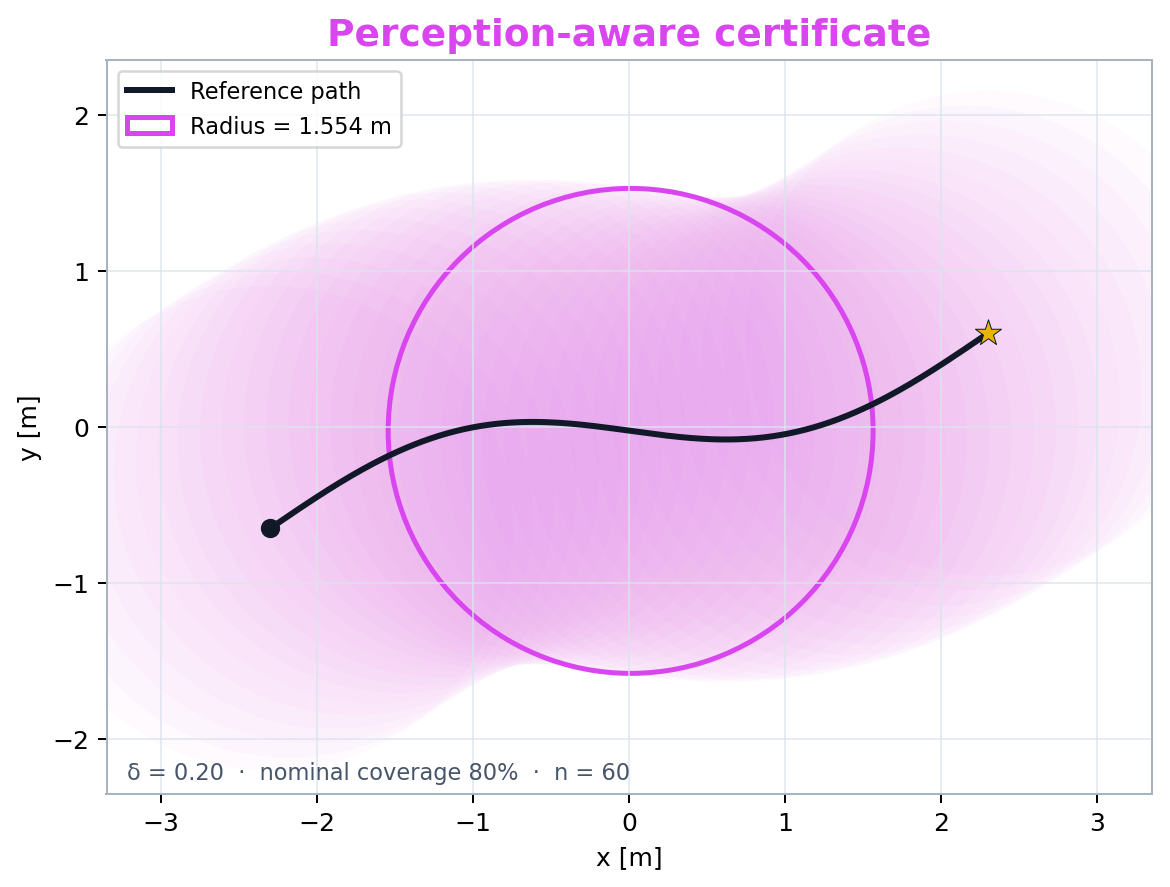
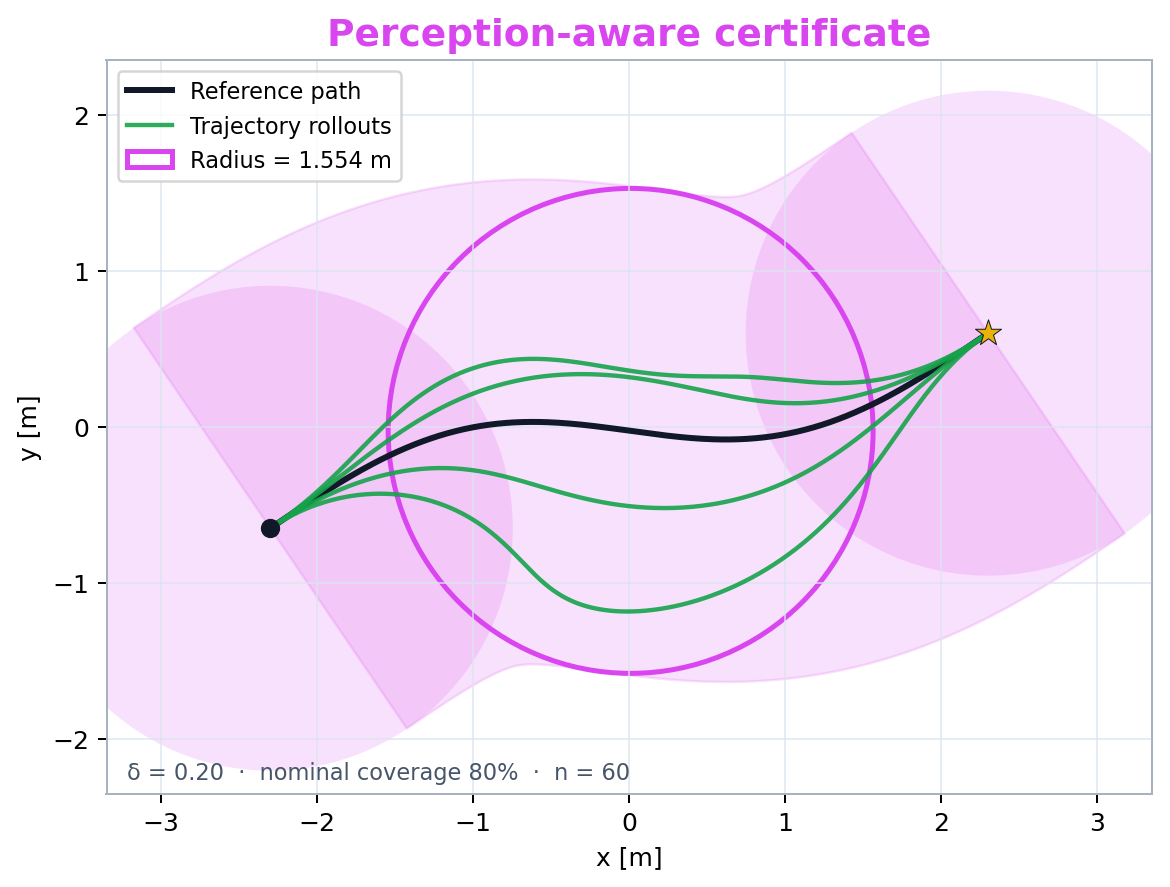
Format controller equations and add tube rollouts

diff --git a/tools/index_source.html b/tools/index_source.html
@@ -172,9 +172,19 @@
         <summary>Controller</summary>
         <div class="equation-body content">
           <p>\[ u=\hat u_d-K\hat e=\hat u_d-K(x-\hat x_d),\qquad \hat e=x-\hat x_d. \]</p>
-          <p>With \(e=x-x_d\),</p>
-          <p>\[ \dot e=A_c e+R,\qquad A_c=A-BK,\qquad R=B\big[\hat u_d-u_d+K(\hat x_d-x_d)\big]. \]</p>
-          <p>\(K\) makes \(A_c\) contracting. The matrix \(P\succ0\) satisfies \(A_c^\top P+PA_c\preceq-2\lambda_P P\).</p>
+          <p>With \(e=x-x_d\), the oracle-relative error dynamics are</p>
+          <p>\[
+            \begin{aligned}
+              \dot e &= A_c e + R, \\
+              A_c &= A-BK, \\
+              R &= B\!\left[\hat u_d-u_d+K(\hat x_d-x_d)\right].
+            \end{aligned}
+          \]</p>
+          <p>The gain \(K\) makes \(A_c\) contracting. A contraction matrix \(P\succ0\) satisfies</p>
+          <p>\[
+            A_c^{\top}P+PA_c\preceq-2\lambda_P P,
+            \qquad \lambda_P>0.
+          \]</p>
         </div>
       </details>
       <details class="equation-card">
@@ -196,8 +206,8 @@
     </div>
 
     <div class="columns result-pair is-variable is-5">
-      <div class="column"><figure class="figure-card compact"><img src="./static/images/hardware_perception_unaware.png" alt="Perception-unaware 80 percent split-conformal certificate with radius 0.893 metres"><figcaption><strong>Perception-unaware:</strong> \(r=0.892961\) m.</figcaption></figure></div>
-      <div class="column"><figure class="figure-card compact"><img src="./static/images/hardware_perception_aware.png" alt="Perception-aware 80 percent split-conformal certificate with radius 1.554 metres"><figcaption><strong>Perception-aware:</strong> \(r=1.553877\) m.</figcaption></figure></div>
+      <div class="column"><figure class="figure-card compact"><img src="./static/images/hardware_perception_unaware.png" alt="Trajectory rollouts compared with the perception-unaware tube of radius 0.893 metres"><figcaption><strong>Perception-unaware:</strong> \(r=0.892961\) m; one trajectory rollout exits the tube.</figcaption></figure></div>
+      <div class="column"><figure class="figure-card compact"><img src="./static/images/hardware_perception_aware.png" alt="The same trajectory rollouts contained by the perception-aware tube of radius 1.554 metres"><figcaption><strong>Perception-aware:</strong> \(r=1.553877\) m; the same trajectory rollouts remain inside the tube.</figcaption></figure></div>
     </div>
   </div>
 </section>

diff --git a/tools/build_result_assets.py b/tools/build_result_assets.py
@@ -154,15 +154,41 @@ def cleaned_benchmark():
     plt.close(fig)
 
 
+def hardware_rollouts(path):
+    """Deterministic illustrative rollouts shared by both certificate panels."""
+    tangent = np.gradient(path, axis=0)
+    tangent /= np.linalg.norm(tangent, axis=1, keepdims=True)
+    normal = np.column_stack([-tangent[:, 1], tangent[:, 0]])
+    t = np.linspace(0, 1, len(path))
+    envelopes = [
+        0.34 * np.sin(np.pi * t) ** 2,
+        -0.48 * np.sin(np.pi * t) ** 2,
+        0.68 * np.sin(np.pi * t) ** 2 * (0.78 + 0.22 * np.sin(3 * np.pi * t)),
+        -1.16 * np.sin(np.pi * t) ** 2,
+    ]
+    return [path + offset[:, None] * normal for offset in envelopes]
+
+
 def hardware_certificate_panel(mode, title, out_name, color):
     cert = json.loads((CERT_ROOT / mode / "split_certificate.json").read_text())
     radius = float(cert["calibrated_radius_m"])
     t = np.linspace(0, 1, 260)
     path = np.column_stack([-2.3 + 4.6 * t, -0.65 + 1.25 * t + 0.3 * np.sin(2 * np.pi * t)])
+    tangent = np.gradient(path, axis=0)
+    tangent /= np.linalg.norm(tangent, axis=1, keepdims=True)
+    normal = np.column_stack([-tangent[:, 1], tangent[:, 0]])
+    upper = path + radius * normal
+    lower = path - radius * normal
+    tube_polygon = np.vstack([upper, lower[::-1]])
+    rollouts = hardware_rollouts(path)
     fig, ax = plt.subplots(figsize=(6.6, 5.0), dpi=180)
-    for j in np.linspace(0, len(path) - 1, 34, dtype=int):
-        ax.add_patch(Circle(path[j], radius, fc=color, ec="none", alpha=0.025))
+    ax.fill(tube_polygon[:, 0], tube_polygon[:, 1], color=color, alpha=0.16, zorder=0)
+    ax.add_patch(Circle(path[0], radius, fc=color, ec="none", alpha=0.16, zorder=0))
+    ax.add_patch(Circle(path[-1], radius, fc=color, ec="none", alpha=0.16, zorder=0))
     ax.plot(path[:, 0], path[:, 1], color="#111827", lw=2.4, label="Reference path")
+    for index, rollout in enumerate(rollouts):
+        ax.plot(rollout[:, 0], rollout[:, 1], color="#16a34a", lw=1.75, alpha=0.9,
+                label="Trajectory rollouts" if index == 0 else None)
     ax.add_patch(Circle(path[len(path)//2], radius, fill=False, ec=color, lw=2.0, label=f"Radius = {radius:.3f} m"))
     ax.scatter(*path[0], color="#111827", s=45, zorder=5)
     ax.scatter(*path[-1], color="#eab308", marker="*", s=120, edgecolor="#111827", linewidth=0.4, zorder=5)
